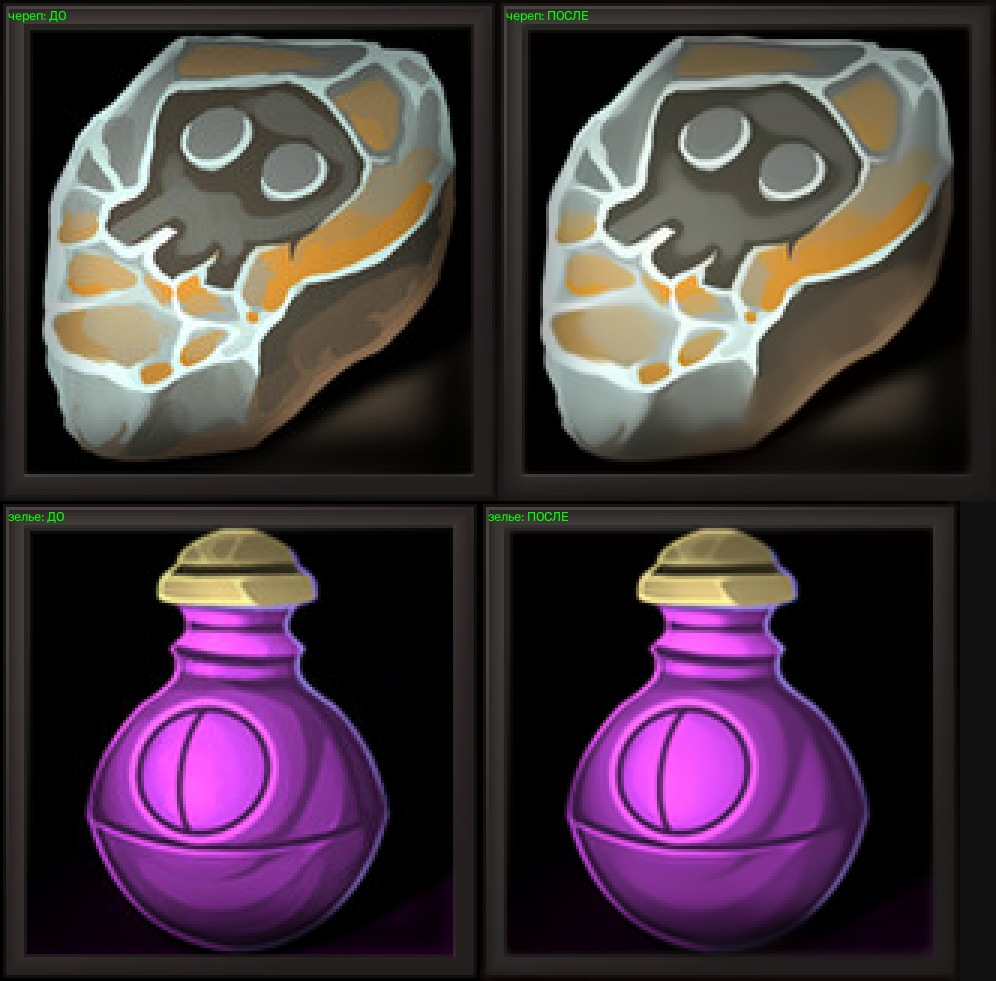
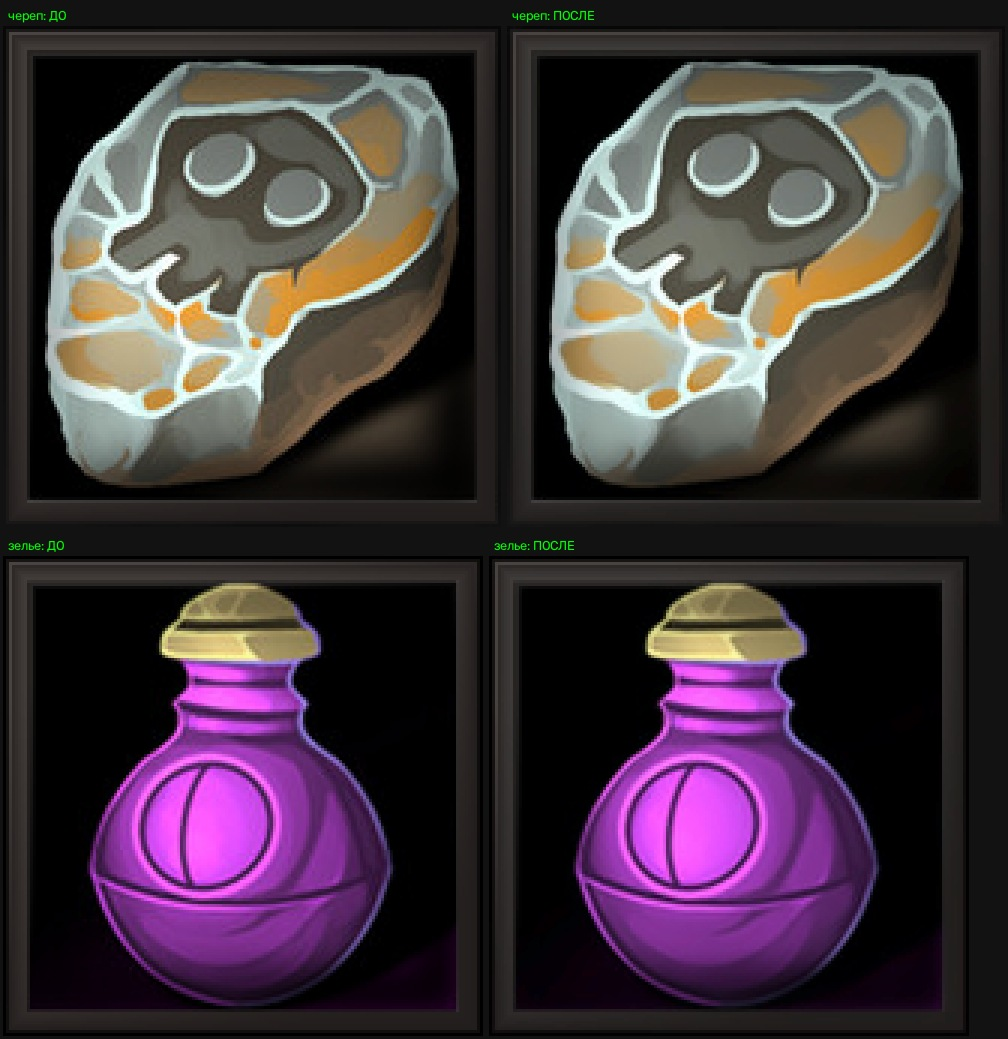
clean_icon: restore mid-scale texture (pattern was being wiped); pixel-level fills via --hL

diff --git a/tools/clean_icon.py b/tools/clean_icon.py
@@ -58,10 +58,10 @@ def edge_band(L: np.ndarray, lo: float = 11.0, hi: float = 30.0) -> np.ndarray:
 PRESETS = {
     # detail — сколько исходной фактуры возвращается поверх чистки (0..1):
     # в ровных заливках возвращается мало, у деталей — больше.
-    "soft":     dict(hL=6.0, hC=4.0, t=7, s=15, soft=0.0, detail=0.95),
-    "normal":   dict(hL=10.0, hC=5.0, t=7, s=15, soft=0.0, detail=0.90),
-    "strong":   dict(hL=14.0, hC=6.0, t=7, s=15, soft=0.0, detail=0.80),
-    "max":      dict(hL=20.0, hC=8.0, t=9, s=21, soft=0.0, detail=0.60),
+    "soft":     dict(hL=8.0, hC=4.0, t=7, s=15, soft=0.0, detail=0.95),
+    "normal":   dict(hL=14.0, hC=5.0, t=7, s=15, soft=0.0, detail=0.90),
+    "strong":   dict(hL=20.0, hC=6.0, t=7, s=15, soft=0.0, detail=0.75),
+    "max":      dict(hL=28.0, hC=8.0, t=9, s=21, soft=0.0, detail=0.55),
     # частотный способ (альтернатива)
     "freq":     dict(T=(6.0, 4.0, 4.0), soft=0.0, detail=0.0),
 }
@@ -174,25 +174,42 @@ def _shrink(d: np.ndarray, T: float, soft: float = 2.0) -> np.ndarray:
 
 
 def restore_detail(src: np.ndarray, cleaned: np.ndarray,
-                   amount: float = 0.0) -> np.ndarray:
-    """Возврат части исходной фактуры поверх чистки.
+                   amount: float = 0.0, mid_thr: float = 1.0,
+                   mid_span: float = 4.0, flat_keep: float = 0.30,
+                   chroma: float = 0.45) -> np.ndarray:
+    """Возврат исходной фактуры поверх чистки, раздельно по масштабам.
 
-    Смешиваем не «всё подряд»: вес исходника растёт там, где есть мелкая
-    структура (там теряются детали), и почти нулевой в ровных заливках (там
-    возвращать нечего, кроме шума). Вес дополнительно сглажен, чтобы не
-    появилось границы между зонами."""
+    Картинка раскладывается на две полосы:
+      * средняя  `med` — то, что переживает медиану 3×3: пятна, мраморность,
+        мягкая штриховка. Именно она и есть «узор», который смывает NLM.
+      * тонкая   `src - med` — однопиксельная крупа и кромки.
+
+    Средняя полоса возвращается почти всегда (в ровной заливке `med` и так
+    совпадает с чисткой, так что шум не вернётся), тонкая — только там, где
+    есть средняя структура: на крапинке в пустой заливке `med` ровная, вес
+    нулевой, крупа остаётся вычищенной, а тонкая линия/контур возвращаются
+    целиком. Цвет возвращается слабее яркости — цветной шум заметнее всего.
+    """
     if amount <= 0:
         return cleaned
-    L = cv2.cvtColor(src, cv2.COLOR_BGR2LAB)[..., 0].astype(np.float32)
-    hp = np.abs(L - cv2.medianBlur(np.clip(L, 0, 255).astype(np.uint8), 3).astype(np.float32))
-    w = np.clip((hp - 6.0) / 18.0, 0.0, 1.0)
-    w = cv2.GaussianBlur(w, (0, 0), 1.2)
-    a_l = float(amount) * (0.30 + 0.70 * w)
-    # цветную фактуру возвращаем слабее: цветной шум — самая заметная грязь,
-    # а «детальность» рисуется почти целиком яркостью
-    alpha = np.stack([a_l, a_l * 0.35, a_l * 0.35], -1)
-    return np.clip(cleaned.astype(np.float32) + (src.astype(np.float32) - cleaned.astype(np.float32)) * alpha,
-                   0, 255).astype(np.uint8)
+    lab = cv2.cvtColor(src, cv2.COLOR_BGR2LAB).astype(np.float32)
+    clab = cv2.cvtColor(cleaned, cv2.COLOR_BGR2LAB).astype(np.float32)
+
+    def _med(ch: np.ndarray) -> np.ndarray:
+        return cv2.medianBlur(np.clip(ch, 0, 255).astype(np.uint8), 3).astype(np.float32)
+
+    med_l = _med(lab[..., 0])
+    mid = np.abs(med_l - cv2.GaussianBlur(med_l, (0, 0), 2.2))
+    w = np.clip((mid - mid_thr) / max(mid_span, 1e-3), 0.0, 1.0)
+    w = cv2.GaussianBlur(w, (0, 0), 1.5)
+    k = flat_keep + (1.0 - flat_keep) * w
+
+    out = clab.copy()
+    for i, f in ((0, 1.0), (1, chroma), (2, chroma)):
+        m = _med(lab[..., i])
+        out[..., i] = clab[..., i] + float(amount) * (
+            k * (m - clab[..., i]) + w * (lab[..., i] - m) * f)
+    return cv2.cvtColor(np.clip(out, 0, 255).astype(np.uint8), cv2.COLOR_LAB2BGR)
 
 
 def clean_fill(img: np.ndarray, preset: str = "normal") -> np.ndarray:
@@ -350,6 +367,8 @@ def main() -> int:
                     help="смягчение кромок 0..1 (0 — жёсткие)")
     ap.add_argument("--detail", type=float, default=None,
                     help="возврат исходной фактуры 0..1 (0 — только чистка)")
+    ap.add_argument("--hL", type=float, default=None,
+                    help="сила чистки яркости 1..40 (по умолчанию из пресета)")
     ap.add_argument("--chroma", type=float, default=1.0, help="сила чистки цвета 0..2")
     ap.add_argument("--luma", type=float, default=0.8, help="сила чистки яркости 0..2")
     ap.add_argument("--edge-thr", type=float, default=10.0)
@@ -363,7 +382,8 @@ def main() -> int:
         if img is None:
             raise SystemExit(f"не читается: {src}")
         if args.protect is not None or args.iters is not None \
-                or args.soft_edges is not None or args.detail is not None:
+                or args.soft_edges is not None or args.detail is not None \
+                or args.hL is not None:
             p = dict(PRESETS[args.preset])
             if args.protect is not None:
                 p["dil"] = args.protect
@@ -374,6 +394,8 @@ def main() -> int:
                 p["soft"] = args.soft_edges
             if args.detail is not None:
                 p["detail"] = args.detail
+            if args.hL is not None:
+                p["hL"] = args.hL
             PRESETS["_custom"] = p
             if "hL" in p or "T" in p:
                 res = clean_fill(img, "_custom")

diff --git a/tools/README.md b/tools/README.md
@@ -107,42 +107,54 @@ python3 tools/clean_icon.py in.png -o out.png --chroma 1.0 --luma 0.8
 1. Каналы LAB чистятся `cv2.fastNlMeansDenoising`: каждый пиксель заменяется
    средним по похожим на его окружение фрагментам кадра. Заливка усредняется,
    кромки и скругления не «платофицируются» — нет ступенек и надрезов.
-2. `restore_detail()` возвращает часть исходной фактуры: вес исходника растёт
-   там, где есть мелкая структура (там и теряются детали), и почти нулевой в
-   ровных заливках (там возвращать нечего, кроме шума). Сила — `--detail 0..1`.
+2. `restore_detail()` возвращает исходную фактуру, раздельно по масштабам.
+   Картинка раскладывается на две полосы:
+   * **средняя** (`med`) — то, что переживает медиану 3×3: пятна, мраморность,
+     мягкая штриховка. Это и есть «узор», который смывает NLM, — её возвращаем
+     почти всегда (в ровной заливке `med` и так совпадает с чисткой, поэтому шум
+     оттуда не лезет);
+   * **тонкая** (`src - med`) — однопиксельная крупа и кромки. Её возвращаем
+     только там, где есть средняя структура: на одиночной крапинке в пустой
+     заливке вес нулевой (крупа остаётся вычищенной), а тонкая линия, ободок или
+     контур возвращаются целиком.
+   Цвет возвращается в 0.45 раза слабее яркости — цветной шум заметнее всего.
+   Сила — `--detail 0..1`.
 3. `soften_edges()` — при желании смягчает полосу кромок (`--soft-edges 0..1`).
 
-Режимы (чем бережнее — тем больше исходной фактуры остаётся):
+Режимы:
 
-| режим | hL | detail | сохранность фактуры |
+| режим | hL | detail | сохранность узора (corr) |
 |---|---|---|---|
-| `soft` | 6 | 0.95 | ~99 % |
-| **`normal`** (по умолчанию) | 10 | 0.90 | ~94 % |
-| `strong` | 14 | 0.80 | ~88 % |
-| `max` | 20 | 0.60 | ~78 % |
+| `soft` | 8 | 0.95 | 0.998 |
+| **`normal`** (по умолчанию) | 14 | 0.90 | **0.996** |
+| `strong` | 20 | 0.75 | 0.991 |
+| `max` | 28 | 0.55 | 0.971 |
 
-`--detail` возвращает исходник по яркости сильнее, чем по цвету (цветной шум —
-самая заметная грязь, а «детальность» рисуется яркостью). `--soft-edges`
-смягчает полосу кромок. Движки-альтернативы: `--preset freq` (частотный),
-`--protect/--iters` (mean shift).
+Движки-альтернативы: `--preset freq` (частотный), `--protect/--iters` (mean shift).
 
-| метрика | череп: до → normal | зелье: до → normal |
+Замеры `normal` (узор — корреляция среднего слоя с исходником, 1.0 = не тронут):
+
+| метрика | череп: до → после | зелье: до → после |
 |---|---|---|
-| шум на заливках | 1.29 → **0.79** | 0.73 → **0.49** |
-| шум яркости | 0.29 → 0.19 | 0.09 → 0.06 |
-| цветной шум a/b | 0.31 → 0.26 | 0.13 → 0.09 |
-| резкость контуров | 61.2 → 64.5 | 53.2 → 56.0 |
+| сохранность узора | — → **0.996** | — → **0.994** |
+| шум на заливках | 1.29 → **0.99** | 0.73 → **0.59** |
+| шум яркости | 0.29 → 0.21 | 0.09 → 0.08 |
+| цветной шум a/b | 0.31 → 0.22 | 0.13 → 0.09 |
+| резкость контуров | 61.2 → 63.2 | 53.2 → 55.2 |
 
-Подбор баланса «чистота / детали»:
+Подбор баланса «чистота / узор»:
 
 ```bash
-python3 tools/clean_icon.py in.png -o out.png --detail 0.9   # по умолчанию
-python3 tools/clean_icon.py in.png -o out.png --detail 1.0   # фактура как есть
-python3 tools/clean_icon.py in.png -o out.png --preset soft  # самый бережный
+python3 tools/clean_icon.py in.png -o out.png                 # normal
+python3 tools/clean_icon.py in.png -o out.png --hL 20         # сильнее давит крупу
+python3 tools/clean_icon.py in.png -o out.png --detail 1.0    # фактура как есть
+python3 tools/clean_icon.py in.png -o out.png --preset max    # максимум чистоты
 ```
 
 Сравнения: `samples/two_icons_clean.jpg` (череп и зелье, ×3),
-`samples/icon_clean_zoom.jpg`, `samples/icon2_zoom.jpg`.
+`samples/skull_pattern_zoom.jpg` (низ черепа, узор, ×6),
+`samples/skull_fill_zoom.jpg` (заливка между глазами, ×10),
+`samples/icon2_zoom.jpg` (зелье, стекло, ×8).
 
 ## Нарезка иконок с обводкой
 
